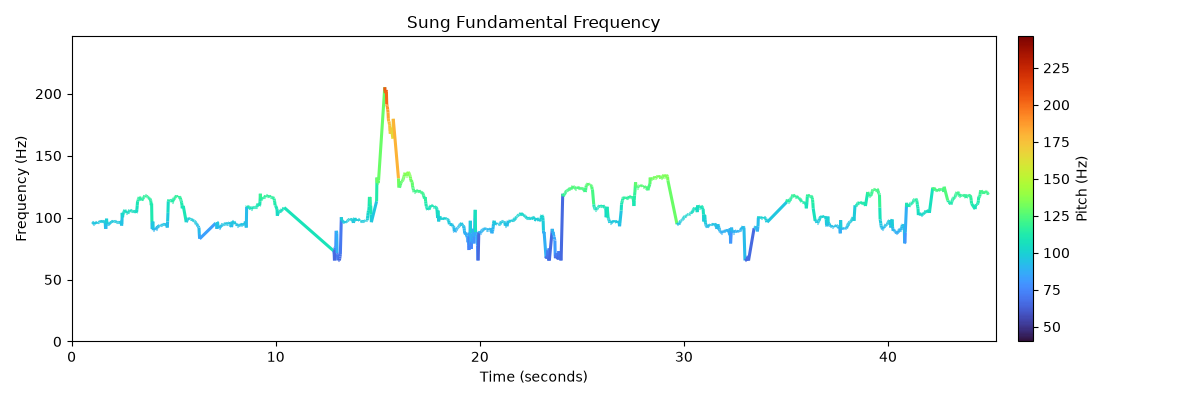
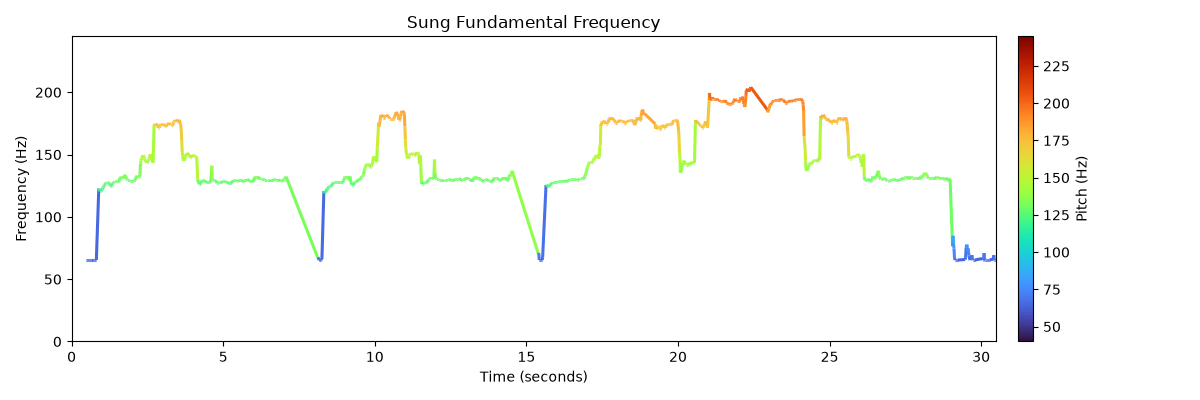
made changes to app.py

diff --git a/templates/eval.html b/templates/eval.html
@@ -5,7 +5,7 @@
  {% block content %}
       <h1>Singing Evaluation</h1>
       <p>This page allows you to evaluate your singing perfromance. </p>
-      <form action="result">
+      <form action="result" method="post" enctype="multipart/form-data">
         <p>Describe your performance here: <input type="string" name="message" value=""></p>
         <input type="file" id="file" name="audio_file">
         <input type="submit" value="Evaluate!">

diff --git a/templates/result.html b/templates/result.html
@@ -1,7 +1,7 @@
 {% extends "layout.html" %}
 
-{% block title %}Result of converting Celsius to Fahrenheit{% endblock %}
+{% block title %}Evaluation{% endblock %}
 
 {% block content %}
-<p> {{  }} </p>
+<p> {{ response }} </p>
 {% endblock %}

diff --git a/app.py b/app.py
@@ -1,22 +1,65 @@
-from flask import Flask, render_template
-from karaoke_classifier import *
+import os
+import tempfile
+from flask import Flask, render_template, request
+from ai import PromptManager
+from karaoke_classifier import KaraokeClassifier
+
 app = Flask(__name__)
 
-@app.before_first_request
-def initialize_model():
-    k = KaraokeClassifier()
-    k.find_files()
-    k.train()
+MODEL_PATH = os.path.join(os.path.dirname(__file__), 'singer_grade_model.keras')
+prompt_manager = None
+
+
+def ensure_dataset_model():
+    if os.path.exists(MODEL_PATH):
+        print(f"Using cached model: {MODEL_PATH}")
+        return
+    print('Training karaoke model before app startup...')
+    classifier = KaraokeClassifier(force_retrain=False)
+    classifier.find_files()
+    classifier.train()
+
+
+def get_prompt_manager():
+    global prompt_manager
+    if prompt_manager is None:
+        prompt_manager = PromptManager()
+    return prompt_manager
+
 
 @app.route('/')
 def render_home():
     return render_template('index.html')
+
 
 @app.route('/eval')
 def render_evaluation():
     return render_template('eval.html')
 
 
+@app.route('/result', methods=['GET', 'POST'])
+def render_result():
+    try:
+        audio_file = request.files.get('audio_file')
+        message = request.form.get('message') or request.args.get('message') or ''
 
-if __name__ == "__main__":
-   app.run(host='0.0.0.0')
+        if audio_file is None or not audio_file.filename:
+            raise ValueError('No audio file was uploaded.')
+
+        with tempfile.NamedTemporaryFile(suffix='.wav', delete=False) as temp_file:
+            audio_file.save(temp_file.name)
+            temp_path = temp_file.name
+
+        response = get_prompt_manager().evaluate_song(temp_path, message)
+
+        if os.path.exists(temp_path):
+            os.remove(temp_path)
+
+        return render_template('result.html', response=response)
+    except Exception as e:
+        return render_template('result.html', response=str(e))
+
+
+if __name__ == '__main__':
+    ensure_dataset_model()
+    app.run(host='0.0.0.0', debug=False)
